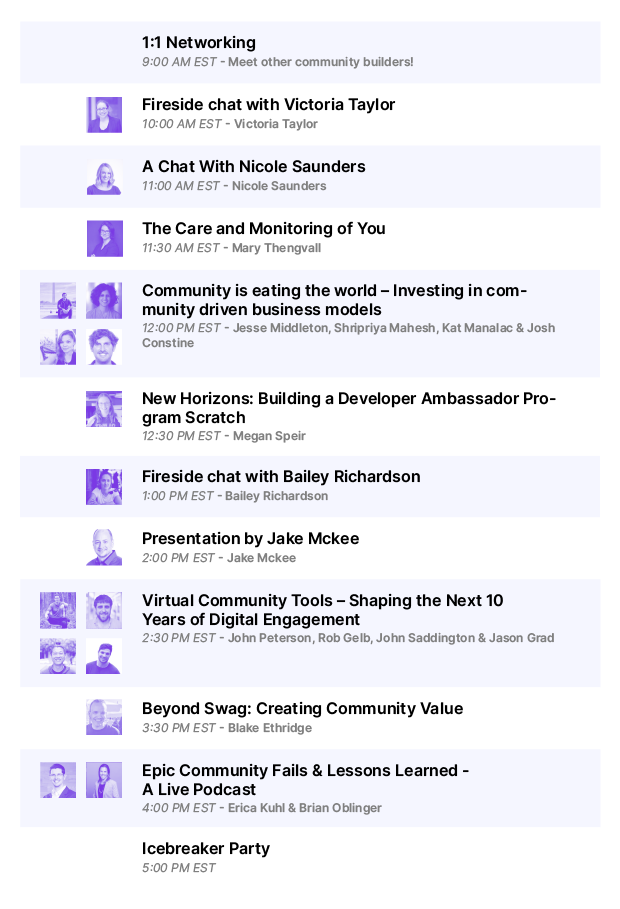
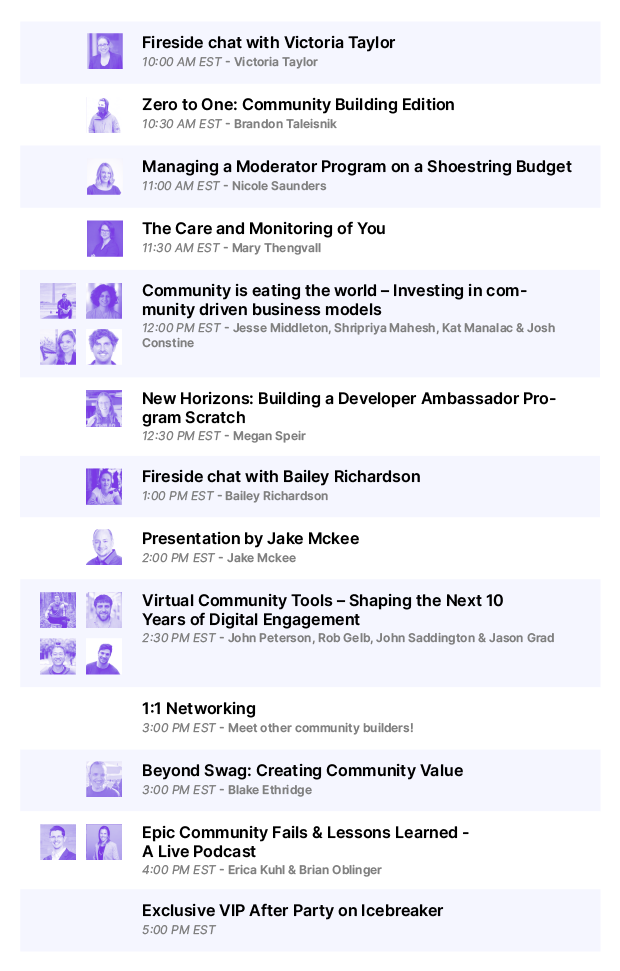
Add brandon + updated schedule

Changed region(s): [[0.0613, 0.0308, 0.9194, 0.9857]]

diff --git a/summit-devrel.html b/summit-devrel.html
@@ -473,6 +473,17 @@ description: A gathering of community builders helping each other navigate the w
           <h4 class="speaker-title s-1">John Saddington</h4>
           <p class="m-0 rock-salt text-large">Co-founder @ YEN</p>
         </div>
+        <div class="column col-2 col-md-4 col-sm-6 text-center my-4">
+          <div style="width: 80%; margin: 0 10%;" class="text-center">
+            <a href="https://twitter.com/btaleisnik" target="_blank"">
+              <div class="speaker-image">
+                <img class="offset-2" style="width: 100%;" src="/assets/summit/speakers/brandon-taleisnik.png"/> 
+              </div>
+            </a>
+          </div>
+          <h4 class="speaker-title s-1">Brandon Taleisnik</h4>
+          <p class="m-0 rock-salt text-large">Head of Ops @ OnDeck</p>
+        </div>
         <div class="column col-12 mt-32">
           <div class="columns">
             <div class="column col-6 col-sm-12 text-center">

diff --git a/summit.html b/summit.html
@@ -473,6 +473,17 @@ description: A gathering of community builders helping each other navigate the w
           <h4 class="speaker-title s-1">John Saddington</h4>
           <p class="m-0 rock-salt text-large">Co-founder @ YEN</p>
         </div>
+        <div class="column col-2 col-md-4 col-sm-6 text-center my-4">
+          <div style="width: 80%; margin: 0 10%;" class="text-center">
+            <a href="https://twitter.com/btaleisnik" target="_blank"">
+              <div class="speaker-image">
+                <img class="offset-2" style="width: 100%;" src="/assets/summit/speakers/brandon-taleisnik.png"/> 
+              </div>
+            </a>
+          </div>
+          <h4 class="speaker-title s-1">Brandon Taleisnik</h4>
+          <p class="m-0 rock-salt text-large">Head of Ops @ OnDeck</p>
+        </div>
         <div class="column col-12 mt-32">
           <div class="columns">
             <div class="column col-6 col-sm-12 text-center">

diff --git a/summit-comm.html b/summit-comm.html
@@ -486,6 +486,17 @@ description: A gathering of community builders helping each other navigate the w
             </div>
           </div>
         </div>
+        <div class="column col-2 col-md-4 col-sm-6 text-center my-4">
+          <div style="width: 80%; margin: 0 10%;" class="text-center">
+            <a href="https://twitter.com/btaleisnik" target="_blank"">
+              <div class="speaker-image">
+                <img class="offset-2" style="width: 100%;" src="/assets/summit/speakers/brandon-taleisnik.png"/> 
+              </div>
+            </a>
+          </div>
+          <h4 class="speaker-title s-1">Brandon Taleisnik</h4>
+          <p class="m-0 rock-salt text-large">Head of Ops @ OnDeck</p>
+        </div>
         <!--<div class="column col-12 mt-32 mb-8 text-center">
           <h2 class="sigmar">partners</h2>
         </div>-->
